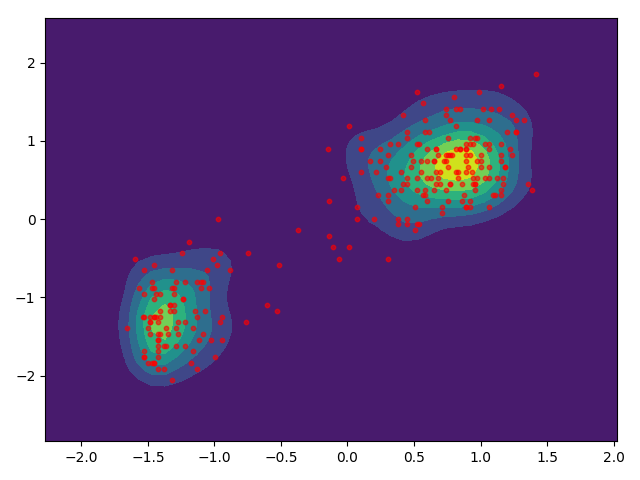
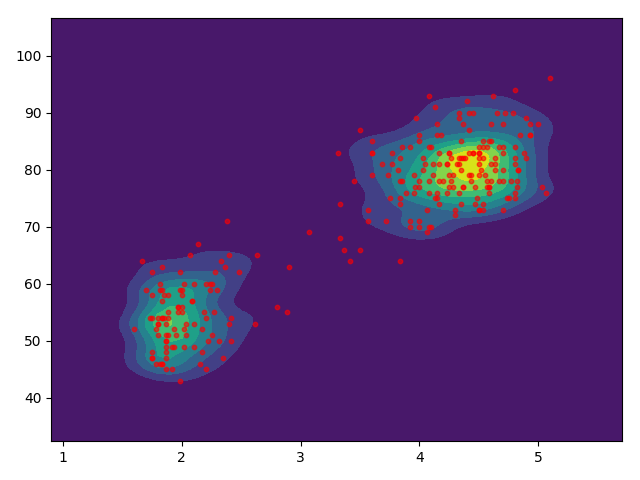
updated banchmarking to use cond_exp

diff --git a/EM_KDE_vs_simple_KDE_imp/imputation_benchmark.py b/EM_KDE_vs_simple_KDE_imp/imputation_benchmark.py
@@ -125,6 +125,7 @@ print('{0} attributes were removed from the first {1} data point.'.format(len(fl
 
 # Storage for benchmarking results
 imputed_values = []
+cond_exp_imputed_values = []
 median_impute = []
 benchmarks = [sigma_F, sigma_D, sigma_S]
 do_median = True
@@ -134,9 +135,12 @@ print('Benchmarking different kernels...')
 for benchmark_case in benchmarks:
     sigma = benchmark_case
     _imputed_values = []
+    _cond_exp_imputed_values = []
     for test_data in damaged_data:
         imputed_value = nadaraya_watson_imputation(damaged_data=test_data, train_data=data, sigma=sigma)
+        cond_exp_imputed_value = improved_nadaraya_watson_imputation(damaged_data=test_data, train_data=data, sigma=sigma)
         _imputed_values.append(imputed_value)
+        _cond_exp_imputed_values.append(cond_exp_imputed_value)
 
         if do_median:
             missing_dim = [idx for idx, value in enumerate(test_data) if np.isnan(value)]
@@ -145,9 +149,12 @@ for benchmark_case in benchmarks:
     do_median = False
     _imputed_values = np.array(_imputed_values)
     imputed_values.append(_imputed_values)
+    _cond_exp_imputed_values = np.array(_cond_exp_imputed_values)
+    cond_exp_imputed_values.append(_cond_exp_imputed_values)
 
 median_impute = np.array(median_impute)
 imputed_values = np.array(imputed_values)
+cond_exp_imputed_values = np.array(cond_exp_imputed_values)
 
 # Benchmark imputation with KNN method
 print('Benchmarking KNN imputation...')
@@ -189,12 +196,21 @@ rmse_D = np.array([np.mean(diff) for diff in np.abs(removed_values - imputed_val
 rmse_S = np.array([np.mean(diff) for diff in np.abs(removed_values - imputed_values[2])])
 rmse_median = np.array([np.mean(diff) for diff in np.abs(removed_values - median_impute)])
 
+cond_exp_mse_F = np.array([np.mean(diff) for diff in np.abs(removed_values - cond_exp_imputed_values[0]) ** 2])
+cond_exp_mse_D = np.array([np.mean(diff) for diff in np.abs(removed_values - cond_exp_imputed_values[1]) ** 2])
+cond_exp_mse_S = np.array([np.mean(diff) for diff in np.abs(removed_values - cond_exp_imputed_values[2]) ** 2])
+cond_exp_mse_median = np.array([np.mean(diff) for diff in np.abs(removed_values - median_impute) ** 2])
+
+cond_exp_rmse_F = np.array([np.mean(diff) for diff in np.abs(removed_values - cond_exp_imputed_values[0])])
+cond_exp_rmse_D = np.array([np.mean(diff) for diff in np.abs(removed_values - cond_exp_imputed_values[1])])
+cond_exp_rmse_S = np.array([np.mean(diff) for diff in np.abs(removed_values - cond_exp_imputed_values[2])])
+cond_exp_rmse_median = np.array([np.mean(diff) for diff in np.abs(removed_values - median_impute)])
+
+
 plt.figure(3)
 plt.plot(np.arange(len(mse_S)), mse_S, '-y', label='MSE (S-Kernel)')
 plt.plot(np.arange(len(mse_D)), mse_D, '-r', label='MSE (D-Kernel)')
 plt.plot(np.arange(len(mse_F)), mse_F, '-b', label='MSE (F-Kernel)')
-# plt.plot(np.arange(len(mse_median)), mse_median, '-r', label='MSE median')
-# plt.plot(np.arange(len(best_neighbor_mse)), best_neighbor_mse, '-m', label='MSE KNN ({0})'.format(best_neighbor_number))
 plt.legend()
 plt.xlabel('Index of damaged observation')
 plt.ylabel('Imputation MSE')
@@ -204,22 +220,32 @@ plt.figure(4)
 plt.plot(np.arange(len(rmse_S)), rmse_S, '-y', label='RMSE (S-Kernel)')
 plt.plot(np.arange(len(rmse_D)), rmse_D, '-r', label='RMSE (D-Kernel)')
 plt.plot(np.arange(len(rmse_F)), rmse_F, '-b', label='RMSE (F-Kernel)')
-# plt.plot(np.arange(len(rmse_median)), rmse_median, '-r', label='RMSE median')
-# plt.plot(np.arange(len(best_neighbor_rmse)), best_neighbor_rmse, '-m', label='MSE KNN ({0})'.format(best_neighbor_number))
 plt.legend()
 plt.xlabel('Index of damaged observation')
 plt.ylabel('Imputation RMSE')
 plt.show()
 
 
-boxplot_data = [mse_F, mse_D, mse_S, mse_median, best_neighbor_mse]
+# boxplot_data = [mse_F, mse_D, mse_S, mse_median, best_neighbor_mse]
+# plt.figure(5)
+# plt.title('Imputation MSE')
+# plt.boxplot(boxplot_data, showfliers=False, labels=['F-kernel', 'D-kernel', 'S-kernel', 'Median', 'KNN ({0})'.format(best_neighbor_number)], patch_artist=True)
+# plt.show()
+#
+# boxplot_data = [rmse_F, rmse_D, rmse_S, rmse_median, best_neighbor_rmse]
+# plt.figure(6)
+# plt.title('Imputation RMSE')
+# plt.boxplot(boxplot_data, showfliers=False, labels=['F-kernel', 'D-kernel', 'S-kernel', 'Median', 'KNN ({0})'.format(best_neighbor_number)], patch_artist=True)
+# plt.show()
+
+boxplot_data = [mse_F, mse_D, mse_S, cond_exp_mse_F, cond_exp_mse_D, cond_exp_mse_S, mse_median, best_neighbor_mse]
 plt.figure(5)
 plt.title('Imputation MSE')
-plt.boxplot(boxplot_data, showfliers=False, labels=['F-kernel', 'D-kernel', 'S-kernel', 'Median', 'KNN ({0})'.format(best_neighbor_number)], patch_artist=True)
+plt.boxplot(boxplot_data, showfliers=False, labels=['F-kernel', 'D-kernel', 'S-kernel', 'F-kernel', 'D-kernel', 'S-kernel', 'Median', 'KNN ({0})'.format(best_neighbor_number)], patch_artist=True)
 plt.show()
 
-boxplot_data = [rmse_F, rmse_D, rmse_S, rmse_median, best_neighbor_rmse]
+boxplot_data = [rmse_F, rmse_D, rmse_S, cond_exp_rmse_F, cond_exp_rmse_D, cond_exp_rmse_S, rmse_median, best_neighbor_rmse]
 plt.figure(6)
 plt.title('Imputation RMSE')
-plt.boxplot(boxplot_data, showfliers=False, labels=['F-kernel', 'D-kernel', 'S-kernel', 'Median', 'KNN ({0})'.format(best_neighbor_number)], patch_artist=True)
+plt.boxplot(boxplot_data, showfliers=False, labels=['F-kernel', 'D-kernel', 'S-kernel', 'F-kernel', 'D-kernel', 'S-kernel', 'Median', 'KNN ({0})'.format(best_neighbor_number)], patch_artist=True)
 plt.show()

diff --git a/EM_KDE_vs_simple_KDE_imp/utils.py b/EM_KDE_vs_simple_KDE_imp/utils.py
@@ -31,10 +31,10 @@ def m_step(x_test, x_train, responsibility):
             # _sigmas[n] = (responsibility[k, n] * delta.T).dot(delta)
 
             # Use this line to reproduce D-Kernel
-            _sigmas[n] = np.eye(dim) * (responsibility[k, n] * (test - train) ** 2)
+            # _sigmas[n] = np.eye(dim) * (responsibility[k, n] * (test - train) ** 2)
 
             # Use this line to reproduce S-Kernel
-            # _sigmas[n] = np.eye(dim) * responsibility[k, n] * np.linalg.norm(test-train)
+            _sigmas[n] = np.eye(dim) * responsibility[k, n] * np.linalg.norm(test-train)
 
         sigmas[k] = _sigmas.mean(axis=0)
 
@@ -147,14 +147,14 @@ def remove_dim(sigma, dim):
     return reduced_sigma
 
 
-def conditional_expectation(mean, test, sigma, dim):
-    S22_inv = 1 / sigma[dim][dim]
-    S12 = np.delete(sigma[dim], dim, axis=0)[np.newaxis].T
+def conditional_expectation(test, mean, sigma, existing_dim, missing_dim):
+    S22_inv = np.linalg.inv(sigma[np.ix_(existing_dim, existing_dim)])
+    S12 = sigma[np.ix_(missing_dim, existing_dim)]
 
-    m1 = mean[dim]
-    m2 = np.delete(mean, dim, axis=0)
+    m1 = mean[missing_dim]
+    m2 = mean[existing_dim]
 
-    return np.squeeze(m1 + S12.dot(S22_inv * (test - m2)))
+    return m1 + S12.dot(S22_inv.dot(test - m2))
 
 
 def nadaraya_watson_imputation(damaged_data, train_data, sigma):
@@ -171,11 +171,46 @@ def nadaraya_watson_imputation(damaged_data, train_data, sigma):
     train_existing = np.delete(train_data, missing_dim, axis=1)
     train_missing = np.delete(train_data, existing_dim, axis=1)
 
-    probabilities = np.array(
-        [np.array(multivariate_normal.pdf(x=damaged_data, mean=train, cov=existing_dim_sigma)) for train in
-         train_existing])
-    prob_sum = probabilities.sum() if probabilities.sum() != 0 else 1
-    imputed_values = np.sum(train_missing * probabilities[:, np.newaxis], axis=0) / prob_sum
+    # imputed_values = np.sum(train_missing * probabilities[:, np.newaxis], axis=0) / prob_sum
+
+    # create transformed data
+    R = np.linalg.cholesky(existing_dim_sigma)
+    R_inv_T = np.linalg.inv(R).T
+    a_train = train_existing.dot(R_inv_T)
+    a_test = damaged_data.dot(R_inv_T)
+
+    responsibility = np.squeeze(e_step(np.array([a_test]), a_train, R))
+
+    imputed_values = np.sum((train_missing * responsibility[:, np.newaxis]), axis=0)
+
+    return imputed_values
+
+
+def improved_nadaraya_watson_imputation(damaged_data, train_data, sigma):
+    # get indexes of the missing and existing dimensions of the test data
+    missing_dim = np.array([idx for idx, value in enumerate(damaged_data) if np.isnan(value)])
+    existing_dim = np.array([idx for idx, value in enumerate(damaged_data) if not np.isnan(value)])
+
+    # Remove the placeholder 'nan' values from the damaged data
+    damaged_data = damaged_data[np.ix_(existing_dim)]
+
+    # create sigma values for the missing and existing dimensions
+    existing_dim_sigma = sigma[np.ix_(existing_dim, existing_dim)]
+
+    train_existing = np.delete(train_data, missing_dim, axis=1)
+
+    # create transformed data
+    R = np.linalg.cholesky(existing_dim_sigma)
+    R_inv_T = np.linalg.inv(R).T
+    a_train = train_existing.dot(R_inv_T)
+    a_test = damaged_data.dot(R_inv_T)
+
+    responsibility = np.squeeze(e_step(np.array([a_test]), a_train, R))
+
+    cond_exp = np.array(
+        [conditional_expectation(damaged_data, mean, sigma, existing_dim, missing_dim) for mean in train_data])
+
+    imputed_values = np.sum((cond_exp * responsibility[:, np.newaxis]), axis=0)
 
     return imputed_values
 

diff --git a/EM_KDE_imputation/EM_KDE_impute.py b/EM_KDE_imputation/EM_KDE_impute.py
@@ -10,7 +10,7 @@ from EM_KDE_imputation.plot import plot_kde
 ## Load data
 raw_data = loadmat('../faithfull/wine.mat')['X']
 
-NUM_TEST = 20
+NUM_TEST = 100
 
 raw_data = preprocessing.scale(raw_data[:(1000 + NUM_TEST)])  # taking only a small part for testing
 data = np.array(raw_data[:-NUM_TEST])
@@ -132,14 +132,14 @@ for test_data in damaged_data:
     improved_imputed_value = improved_nadaraya_watson_imputation(damaged_data=test_data, train_data=data, sigma=sigma)
 
     restored_element = np.insert(test_data, missing_dim, imputed_value)
-    restored_data.append(restored_element)
+    # restored_data.append(restored_element)
     median_impute.append(medians[missing_dim])
 
     imputed_values.append(imputed_value)
     improved_imputed_values.append(improved_imputed_value)
 
 median_impute = np.array(median_impute)
-restored_data = np.array(restored_data)
+# restored_data = np.array(restored_data)
 imputed_values = np.array(imputed_values)
 improved_imputed_values = np.array(improved_imputed_values)
 
@@ -174,3 +174,7 @@ plt.show()
 print(f'Median imputation error: {round(divergence_median.mean())}%')
 print(f'Nadaraya-Watson imputation error: {round(divergence.mean())}%')
 print(f'Improved Nadaraya-Watson imputation error: {round(improved_divergence.mean())}%')
+
+print(f'Median imputation error (MSE): {round(mse_median.mean(), 2)}')
+print(f'Nadaraya-Watson imputation error (MSE): {round(mse.mean(), 2)}')
+print(f'Improved Nadaraya-Watson imputation error (MSE): {round(improved_mse.mean(), 2)}')

diff --git a/EM_KDE_vs_simple_KDE_imp/EM_KDE_sigma.py b/EM_KDE_vs_simple_KDE_imp/EM_KDE_sigma.py
@@ -11,12 +11,12 @@ def em_kde(data_source):
     # Load data
     # Taking only small part due to memory limitations
     if data_source == 'wine':
-        raw_data = preprocessing.scale(loadmat('../faithfull/wine.mat')['X'][:1000])
+        raw_data = (loadmat('../faithfull/wine.mat')['X'][:1000])
         # Also remove the first 100 what we damage later on purpose
         NUM_TEST = 100
         data = np.array(raw_data[:-NUM_TEST])
     else:
-        data = preprocessing.scale(loadmat('../faithfull/faithful.mat')['X'])
+        data = loadmat('../faithfull/faithful.mat')['X']
 
     num_data, dim = data.shape
 
@@ -81,7 +81,7 @@ def em_kde(data_source):
 
 
 if __name__ == '__main__':
-    data_source = 'faithful'
-    # data_source = 'wine'
+    # data_source = 'faithful'
+    data_source = 'wine'
 
     em_kde(data_source)

diff --git a/EM_KDE_imputation/utils.py b/EM_KDE_imputation/utils.py
@@ -115,7 +115,6 @@ def remove_random_value(data_array):
 
     def remove_random(item):
         size = round(random.random() * (dim - 2)) + 1
-        # size = 4
         idx = np.sort(np.unique(np.random.choice(range(dim), size=size, replace=False)))
         removed_dims = []
         for i in idx:
@@ -137,7 +136,7 @@ def conditional_expectation(test, mean, sigma, existing_dim, missing_dim):
     m1 = mean[missing_dim]
     m2 = mean[existing_dim]
 
-    return np.squeeze(m1 + S12.dot(S22_inv.dot(test - m2)))
+    return m1 + S12.dot(S22_inv.dot(test - m2))
 
 
 def nadaraya_watson_imputation(damaged_data, train_data, sigma):
